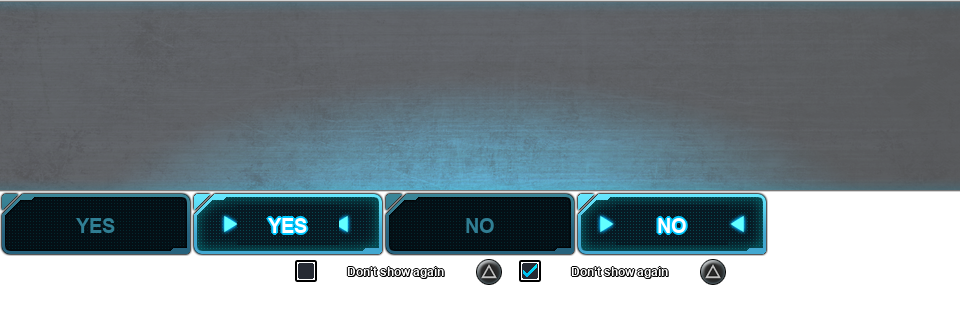
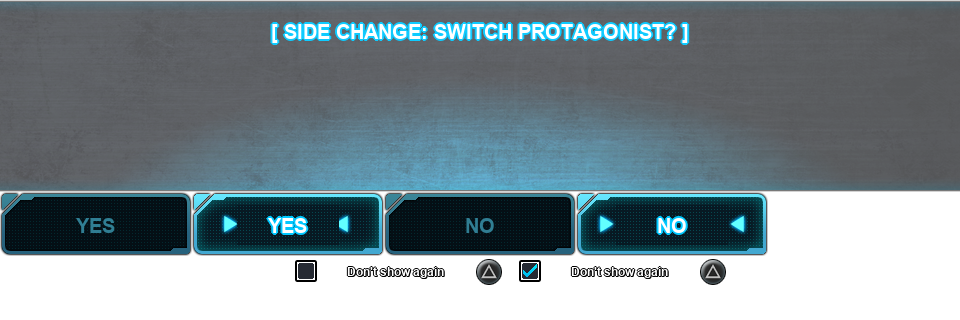
v1.6: Add explicit Side Change confirmation header to dialog window

Changed region(s): [[0.2812, 0.0625, 0.7188, 0.1562]]

diff --git a/README.md b/README.md
@@ -2,11 +2,15 @@
 
 **Title ID:** `PCSG00817`  
 **Platform:** PlayStation Vita / Vita3K (Windows, Android, Linux, macOS, Steam Deck)  
-**Patch Version:** 1.5 (City Map Screen & In-Game System Navigation Bar Localization)
+**Patch Version:** 1.6 (Side Change Confirmation Header & System Dialog Polish)
 
 ---
 
 ## Changelog
+
+### v1.6
+- **Side Change Dialog Confirmation Header (`13_sys/dialog.png`):** Baked explicit English prompt header `[ SIDE CHANGE: SWITCH PROTAGONIST? ]` with glowing cyan accents directly onto the master dialog window. Resolves ambiguity during Kojiro $\leftrightarrow$ Marina route switches without requiring modifications to encrypted Sony executables.
+- **Universal PSARC Compatibility:** 100% compatible with existing `Apply_Patch.bat` pipeline for PC, Android, and real PS Vita hardware.
 
 ### v1.5
 - **City Map Screen (`25_uq/map_name.png`):** Localized all 24 location card headers when Kojiro or Marina moves across Tokyo (`Amagi Detective Agency`, `Headquarters Building`, `Inside Headquarters`, `Central Avenue`, `Princess Hotel`, `Sun Mansion`, `Room 402`, `Room 403`, `Katsuragi Det. Agency`, `Inside Katsuragi Agency`, `Ko's House`, `Inside Ko's House`, `Eldia Embassy`, `Inside Embassy`, `International School`, `Inside School`, `Pool`, `Girls' Dorm`, `Kyoko's Room`, `Library`, `Mayako's Room`, `Warehouse District`). Styled with 1:1 bold white typography and original red stroke outline.
